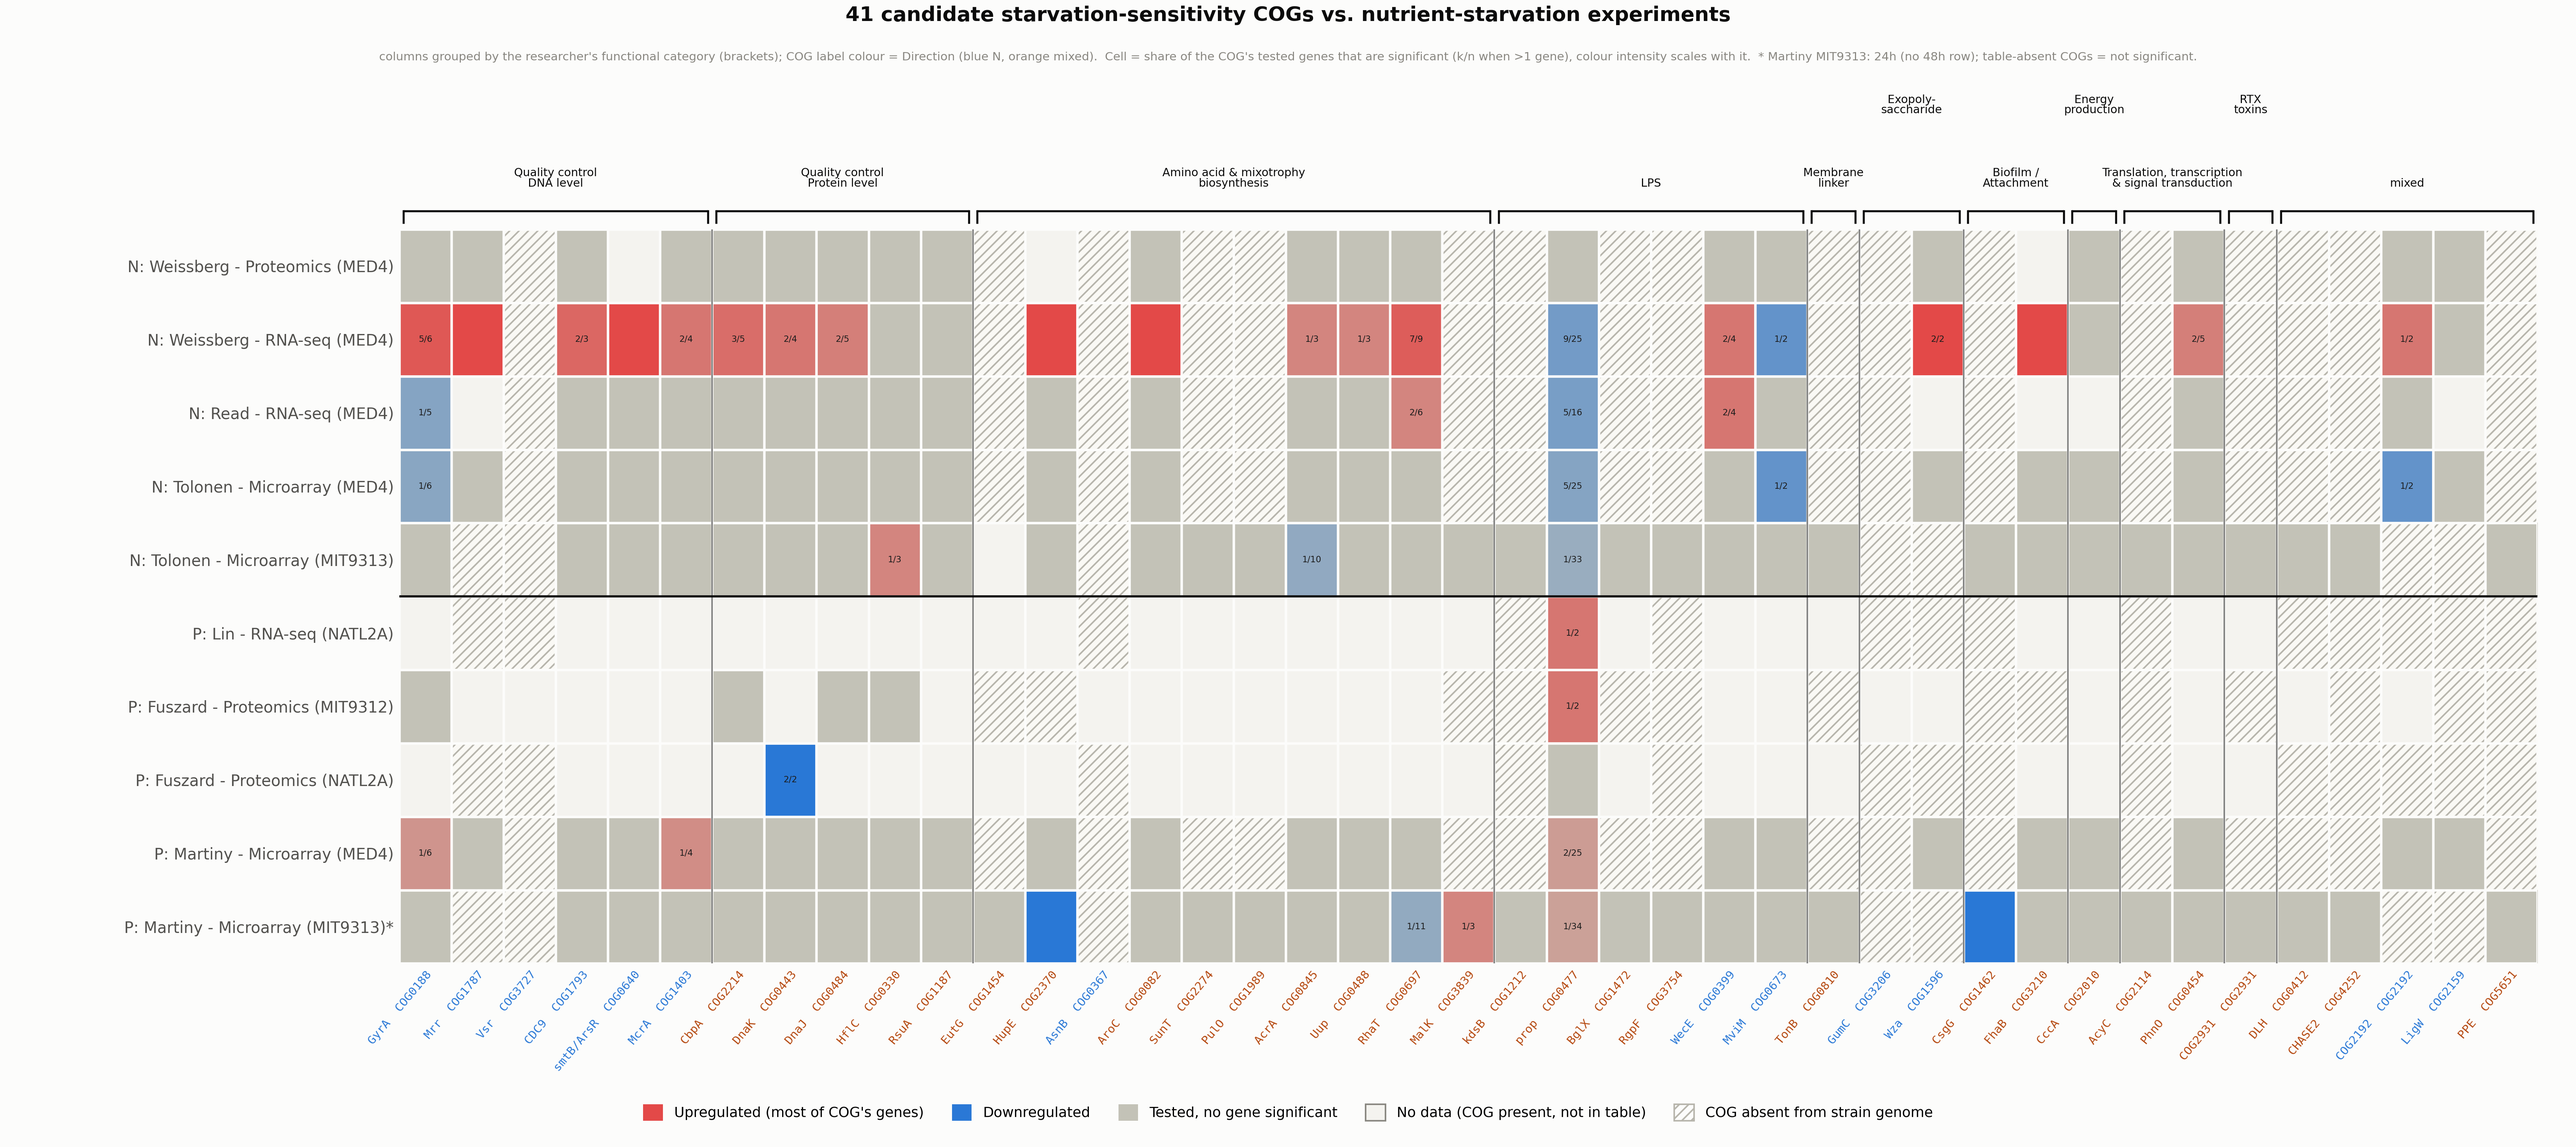
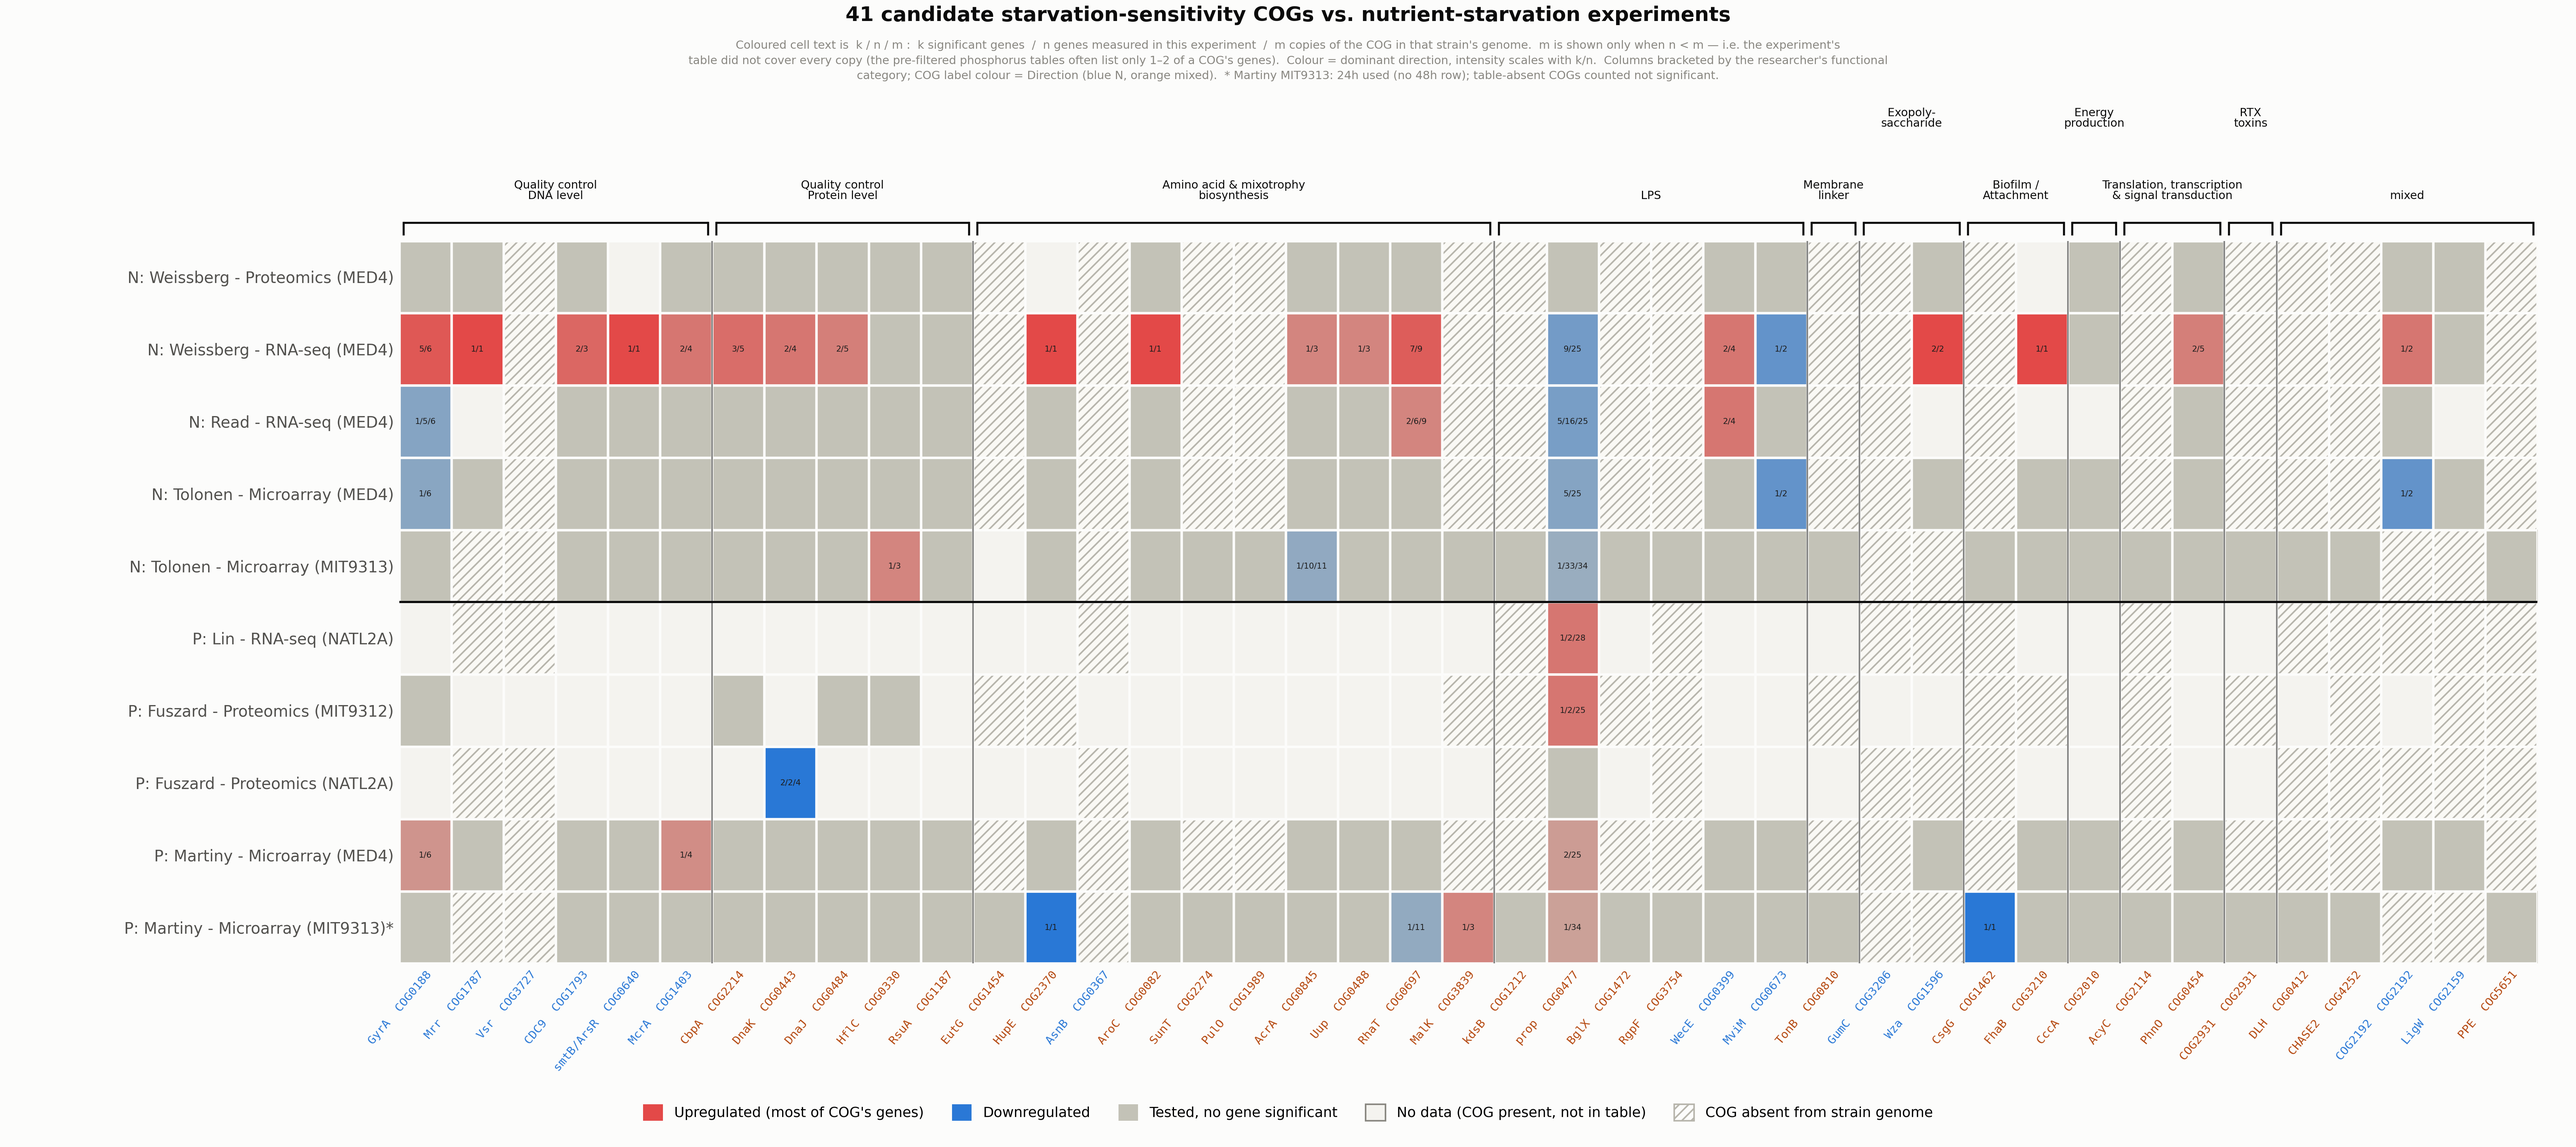
COG heatmap: label every coloured cell k/n/m (significant / measured here / genome copies)
Every coloured cell now carries a count (previously 1/1 cells were blank).
Third number m = COG copies in that strain's genome, shown only when the
experiment measured fewer than all copies -- makes clear that e.g. prop's
'1/2' under Lin means 2 of its 28 genes were in that pre-filtered table,
not a 50% response. Caption explains it.

diff --git a/analyses/2026-09-06-cog_starvation_sensitivity_validation/5_analyze/scripts/03_figures.py b/analyses/2026-09-06-cog_starvation_sensitivity_validation/5_analyze/scripts/03_figures.py
@@ -140,6 +140,7 @@ def make_heatmap(matrix, cogs):
         yi, xi = ri[exp], ci[cog]
         st = g["status"].value_counts().to_dict()
         n_tested = sum(st.get(s, 0) for s in TESTED)
+        n_genome = int(g["locus_tag"].notna().sum())  # COG copies in this strain
         if n_tested == 0:
             if st.get("no_data_at_timepoint", 0) > 0:
                 rgba[yi, xi, :3], rgba[yi, xi, 3] = nodata_rgb, 1.0
@@ -157,8 +158,11 @@ def make_heatmap(matrix, cogs):
         # blend from neutral grey (frac~0) to full colour (frac=1)
         col = notsig_rgb + (base - notsig_rgb) * min(1.0, 0.25 + 0.75 * frac)
         rgba[yi, xi, :3], rgba[yi, xi, 3] = col, 1.0
-        if n_tested > 1:
-            frac_txt[(yi, xi)] = f"{n_sig}/{n_tested}"
+        # k / n / m  = significant / measured in this experiment / copies in the
+        # strain genome. Show m only when the experiment covered fewer than all
+        # copies (n < m); otherwise k/n is enough.
+        frac_txt[(yi, xi)] = (f"{n_sig}/{n_tested}/{n_genome}" if n_tested < n_genome
+                              else f"{n_sig}/{n_tested}")
 
     cell = 0.40
     fw = cell * n_cog + 6.5
@@ -173,7 +177,7 @@ def make_heatmap(matrix, cogs):
             ax.add_patch(Rectangle((xi - 0.5, yi - 0.5), 1, 1, facecolor="none",
                                    edgecolor=HATCH_INK, hatch="////", linewidth=0.0))
     for (yi, xi), t in frac_txt.items():
-        ax.text(xi, yi, t, ha="center", va="center", fontsize=5.5, color="#1c1c1c")
+        ax.text(xi, yi, t, ha="center", va="center", fontsize=5.2, color="#1c1c1c")
 
     # per-COG labels at the BOTTOM (protein + COG, coloured by Direction)
     ax.set_xticks(range(n_cog))
@@ -228,13 +232,15 @@ def make_heatmap(matrix, cogs):
                handlelength=1.4, handleheight=1.4, bbox_to_anchor=(0.5, 0.012))
     fig.suptitle("41 candidate starvation-sensitivity COGs vs. nutrient-starvation experiments",
                  x=0.5, y=0.995, ha="center", va="top", fontsize=13, fontweight="bold", color=INK)
-    fig.text(0.5, 0.955,
-             "columns grouped by the researcher's functional category (brackets); COG label colour = Direction "
-             "(blue N, orange mixed).  Cell = share of the COG's tested genes that are significant "
-             "(k/n when >1 gene), colour intensity scales with it.  "
-             "* Martiny MIT9313: 24h (no 48h row); table-absent COGs = not significant.",
-             ha="center", va="top", fontsize=7.5, color=MUTED)
-    fig.subplots_adjust(left=0.155, right=0.985, top=0.80, bottom=0.16)
+    fig.text(0.5, 0.965,
+             "Coloured cell text is  k / n / m :  k significant genes  /  n genes measured in this experiment  /  "
+             "m copies of the COG in that strain's genome.  m is shown only when n < m — i.e. the experiment's\n"
+             "table did not cover every copy (the pre-filtered phosphorus tables often list only 1–2 of a COG's genes).  "
+             "Colour = dominant direction, intensity scales with k/n.  Columns bracketed by the researcher's functional\n"
+             "category; COG label colour = Direction (blue N, orange mixed).  "
+             "* Martiny MIT9313: 24h used (no 48h row); table-absent COGs counted not significant.",
+             ha="center", va="top", fontsize=7.3, color=MUTED, linespacing=1.5)
+    fig.subplots_adjust(left=0.155, right=0.985, top=0.79, bottom=0.16)
     fig.savefig(FIG_DIR / "01_gene_experiment_heatmap.png", dpi=300, facecolor=SURFACE)
     print(f"Wrote figures/01_gene_experiment_heatmap.png  ({n_exp} x {n_cog})")
 

diff --git a/analyses/2026-09-06-cog_starvation_sensitivity_validation/5_analyze/notebook.md b/analyses/2026-09-06-cog_starvation_sensitivity_validation/5_analyze/notebook.md
@@ -33,11 +33,14 @@ against the step-3 background — **nitrogen only** (pooled + both subsets).
   biosynthesis, LPS, Membrane linker, Exopolysaccharide,
   Biofilm/Attachment, Energy production, Translation/transcription/signal
   transduction, RTX toxins, mixed), with vertical dividers between groups.
-  COG label colour = Direction (blue N, orange mixed). A COG has several
-  genes per strain, so each cell shows the **share of the COG's tested
-  genes that are significant** (`k/n` printed when >1 gene), colour =
-  dominant direction, intensity scaled by the fraction. Walkthrough
-  palette; COGs absent from a strain's genome drawn hatched.
+  COG label colour = Direction (blue N, orange mixed). Coloured cell text
+  is **`k / n / m`** — `k` significant genes / `n` genes measured in that
+  experiment / `m` copies of the COG in that strain's genome; `m` is
+  printed only when `n < m` (the experiment's table did not cover every
+  copy — the pre-filtered phosphorus tables often list only 1–2 of a
+  COG's genes, so `prop` under Lin reads `1/2/28`). Colour = dominant
+  direction, intensity scaled by `k/n`. Walkthrough palette; COGs absent
+  from a strain's genome drawn hatched.
 - `figures/02_pct_significant_vs_background.png` — background line vs. the
   6 hit-rate bars.
 

diff --git a/analyses/2026-09-06-cog_starvation_sensitivity_validation/paper.md b/analyses/2026-09-06-cog_starvation_sensitivity_validation/paper.md
@@ -130,10 +130,11 @@ bracketed and labelled by the researcher's "General annotation" functional
 category (Quality control – DNA / Protein level, Amino acid & mixotrophy
 biosynthesis, LPS, Membrane linker, Exopolysaccharide, Biofilm/Attachment,
 Energy production, Translation/transcription/signalling, RTX toxins,
-mixed); COG label colour = Direction. Each cell = the share of the COG's
-tested genes that are significant (`k/n` shown), coloured by dominant
-direction, walkthrough palette; COGs absent from a strain's genome
-hatched. `[KG]` The field is mostly grey
+mixed); COG label colour = Direction. Coloured cell text is `k / n / m` —
+`k` significant / `n` genes measured in that experiment / `m` genome
+copies in that strain (`m` shown only when `n < m`); colour = dominant
+direction, intensity scales with `k/n`; walkthrough palette; COGs absent
+from a strain's genome hatched. `[KG]` The field is mostly grey
 (tested, no gene significant); the Weissberg RNA-seq row is the hottest
 (that experiment has a high genome-wide baseline, established in the
 walkthrough); the entire phosphorus block is grey/pale.
